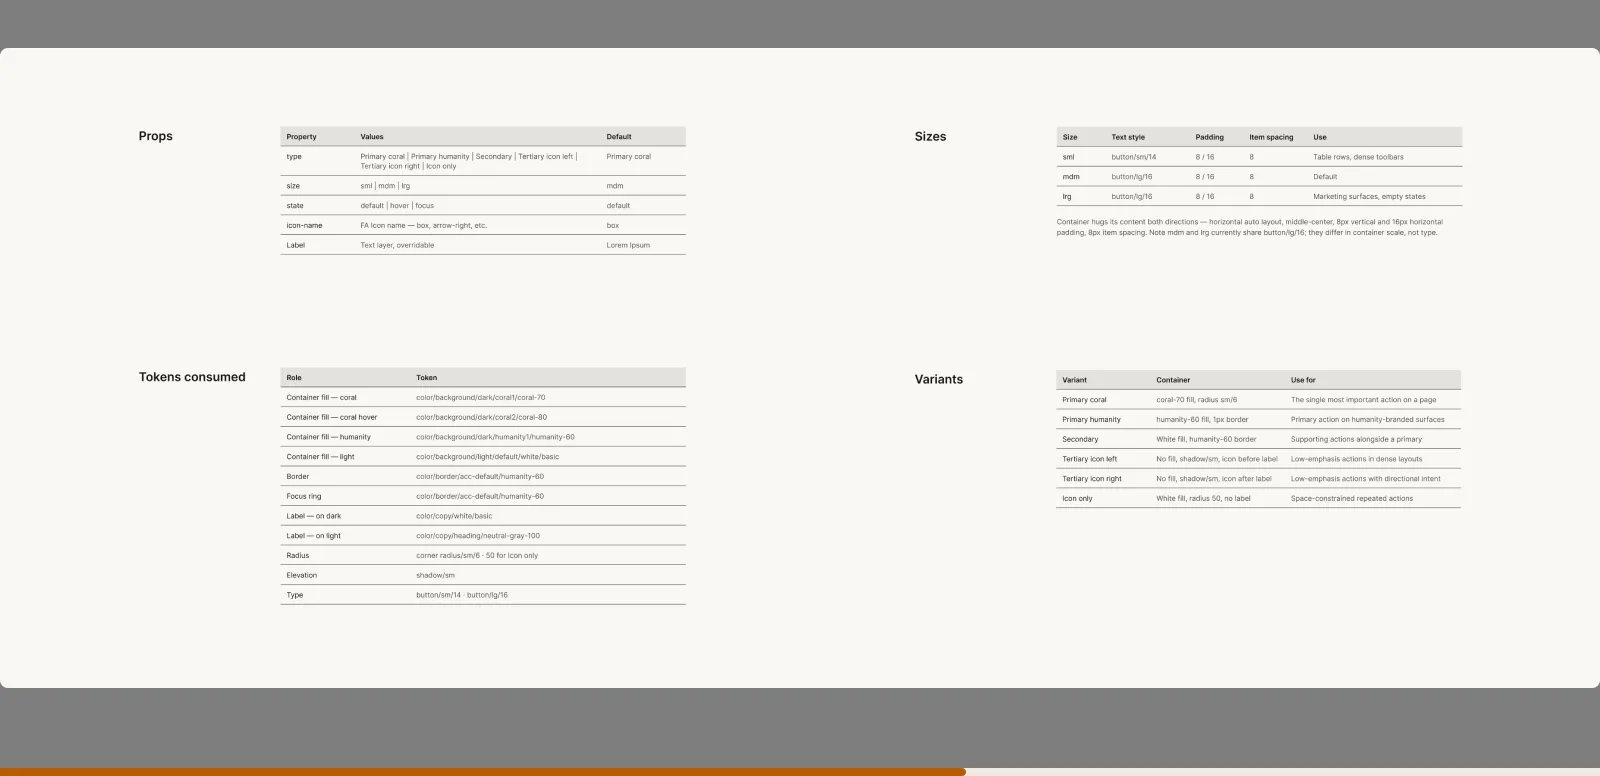
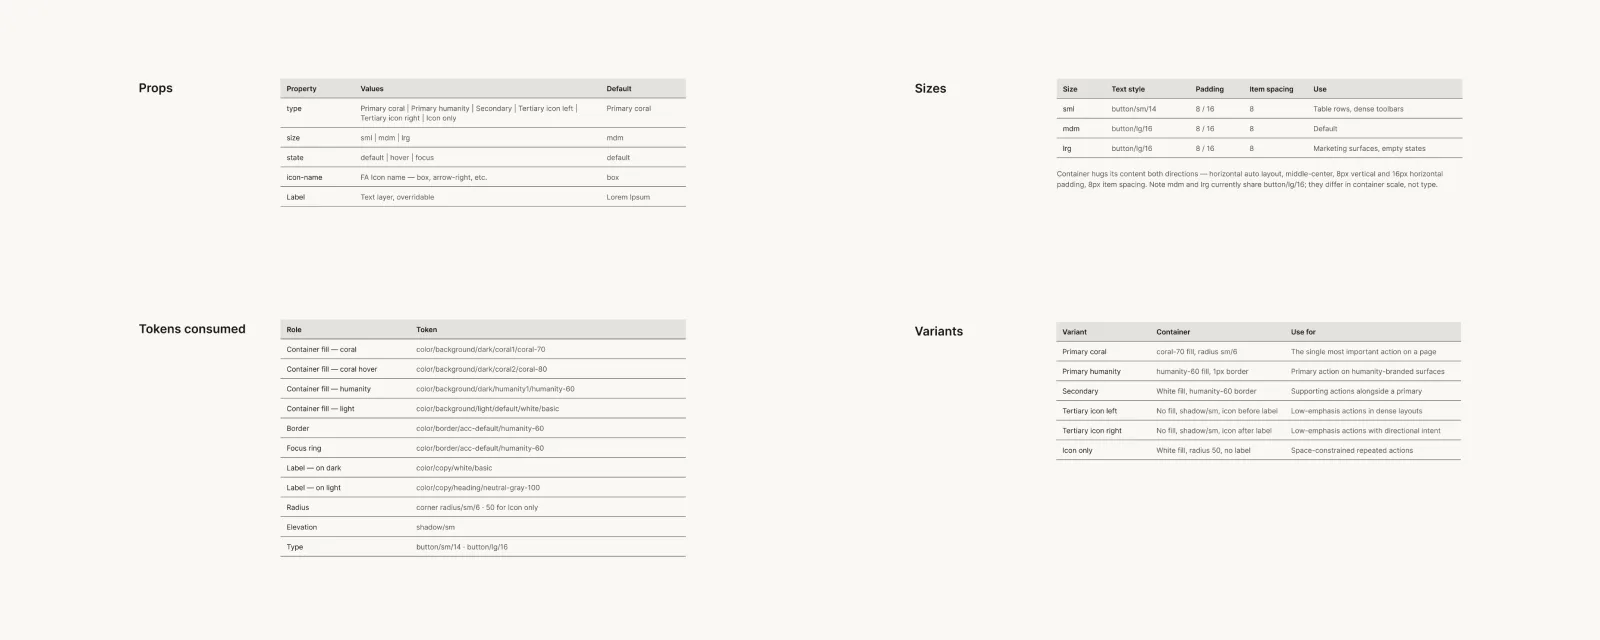
aura slides: clean re-export, fix dimensions to 800x360/320
Re-exported all 7 slide frames with #faf8f5 fill and baked loading
bar removed. Top-left pixel confirmed #faf8f5 on all. Updated height
attrs (428→360, 388→320), manifest h values, and slideshow container
height (428→424 = 360+60gap+4bar).

diff --git a/aura/index.html b/aura/index.html
@@ -207,43 +207,43 @@
                 <div class="cs-slide cs-slide--active" aria-hidden="false">
                   <picture>
                     <source type="image/webp" srcset="/assets/aura/05-slide-1.webp">
-                    <img src="/assets/aura/05-slide-1.png" width="800" height="428" alt="" loading="eager">
+                    <img src="/assets/aura/05-slide-1.png" width="800" height="360" alt="" loading="eager">
                   </picture>
                 </div>
                 <div class="cs-slide" aria-hidden="true">
                   <picture>
                     <source type="image/webp" srcset="/assets/aura/05-slide-2.webp">
-                    <img src="/assets/aura/05-slide-2.png" width="800" height="428" alt="" loading="lazy">
+                    <img src="/assets/aura/05-slide-2.png" width="800" height="360" alt="" loading="lazy">
                   </picture>
                 </div>
                 <div class="cs-slide" aria-hidden="true">
                   <picture>
                     <source type="image/webp" srcset="/assets/aura/05-slide-3.webp">
-                    <img src="/assets/aura/05-slide-3.png" width="800" height="388" alt="" loading="lazy">
+                    <img src="/assets/aura/05-slide-3.png" width="800" height="320" alt="" loading="lazy">
                   </picture>
                 </div>
                 <div class="cs-slide" aria-hidden="true">
                   <picture>
                     <source type="image/webp" srcset="/assets/aura/05-slide-4.webp">
-                    <img src="/assets/aura/05-slide-4.png" width="800" height="428" alt="" loading="lazy">
+                    <img src="/assets/aura/05-slide-4.png" width="800" height="360" alt="" loading="lazy">
                   </picture>
                 </div>
                 <div class="cs-slide" aria-hidden="true">
                   <picture>
                     <source type="image/webp" srcset="/assets/aura/05-slide-5.webp">
-                    <img src="/assets/aura/05-slide-5.png" width="800" height="428" alt="" loading="lazy">
+                    <img src="/assets/aura/05-slide-5.png" width="800" height="360" alt="" loading="lazy">
                   </picture>
                 </div>
                 <div class="cs-slide" aria-hidden="true">
                   <picture>
                     <source type="image/webp" srcset="/assets/aura/05-slide-6.webp">
-                    <img src="/assets/aura/05-slide-6.png" width="800" height="428" alt="" loading="lazy">
+                    <img src="/assets/aura/05-slide-6.png" width="800" height="360" alt="" loading="lazy">
                   </picture>
                 </div>
                 <div class="cs-slide" aria-hidden="true">
                   <picture>
                     <source type="image/webp" srcset="/assets/aura/05-slide-7.webp">
-                    <img src="/assets/aura/05-slide-7.png" width="800" height="428" alt="" loading="lazy">
+                    <img src="/assets/aura/05-slide-7.png" width="800" height="360" alt="" loading="lazy">
                   </picture>
                 </div>
               </div>

diff --git a/css/site.css b/css/site.css
@@ -1334,7 +1334,7 @@ p:not(.text-link-line) > .text-link {
   display: flex;
   flex-direction: column;
   gap: 60px;
-  height: 428px;
+  height: 424px;
   outline: none;
 }
 .cs-slideshow:focus { outline: none; }
